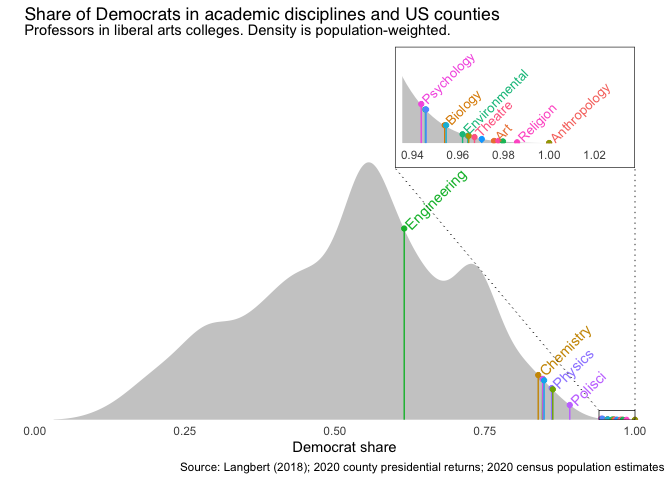
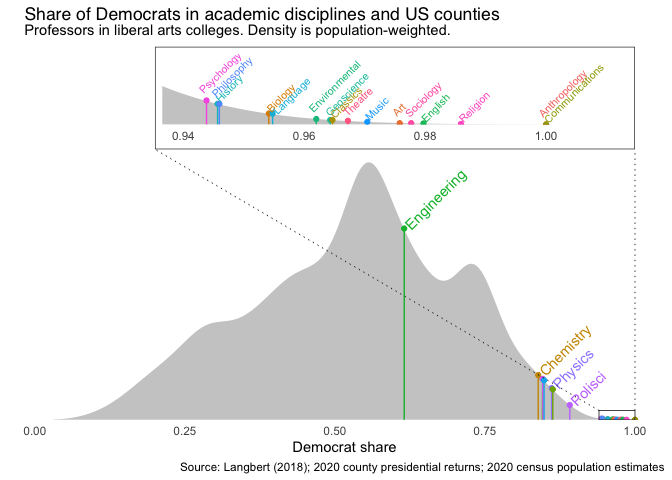
Update readme

Changed region(s): [[0.2188, 0.0938, 0.9375, 0.3438]]

diff --git a/README.md b/README.md
@@ -3,17 +3,22 @@
 
 # Academic bias
 
-I sometimes still find people claiming there is no political bias in
-academia. So I made these graphs to help explain the problem.
+I sometimes find people claiming there is no political bias in academia,
+or that it isn’t a big deal. So I made these graphs to help visualize
+the scale of the issue.
 
-The density plot below shows the distribution of US counties by
-Democratic vote share in 2020. The coloured lines show the proportion of
-registered Democrats, out of registered Republicans and Democrats, in
-five academic disciplines. I’ve added a zoom inset, in case you strain
-your eyes trying to spot the number of Republicans among history
-faculty.
+The density plot below shows the population-weighted distribution of US
+counties by Democratic vote share in 2020. The coloured lines show the
+proportion of registered Democrats, out of registered Republicans and
+Democrats, in five academic disciplines. I’ve added a zoom inset, in
+case you strain your eyes trying to spot the number of Republicans among
+history faculty.
 
 ![](README_files/figure-gfm/plot1-1.png)<!-- -->
+
+Another set of data comes from Langbert and Stevens (2020):
+
+![](README_files/figure-gfm/plot1.1-1.png)<!-- -->
 
 To get more disciplines, we can use Langbert (2018), who looks at
 professors in liberal arts colleges. I haven’t added the proportion of
@@ -30,8 +35,8 @@ engineering faculty.
 
   A little bit, yes. But the data is real.
 
-- This isn’t fair, you’re comparing registered Democrats in faculty to
-  Democrat voters in the US.
+- This isn’t fair, you’re comparing *registered* Democrats in faculty to
+  Democrat *voters* in the US.
 
   Short answer: dude, suppose I’m out by a factor of ten.
 
@@ -41,3 +46,16 @@ engineering faculty.
   looks like this:
 
 ![](README_files/figure-gfm/plot3-1.png)<!-- -->
+
+# Sources
+
+Langbert, M., Quain, A.J. and Klein, D.B., 2016. Faculty voter
+registration in economics, history, journalism, law, and psychology.
+Econ Journal Watch, 13(3), pp.422-451.
+
+Langbert, M., 2018. Homogenous: The political affiliations of elite
+liberal arts college faculty. Academic Questions, 31(2), pp.186-197.
+
+Langbert, M. and Stevens, S., 2020. Partisan registration and
+contributions of faculty in flagship colleges. National Association of
+Scholars, 17.
